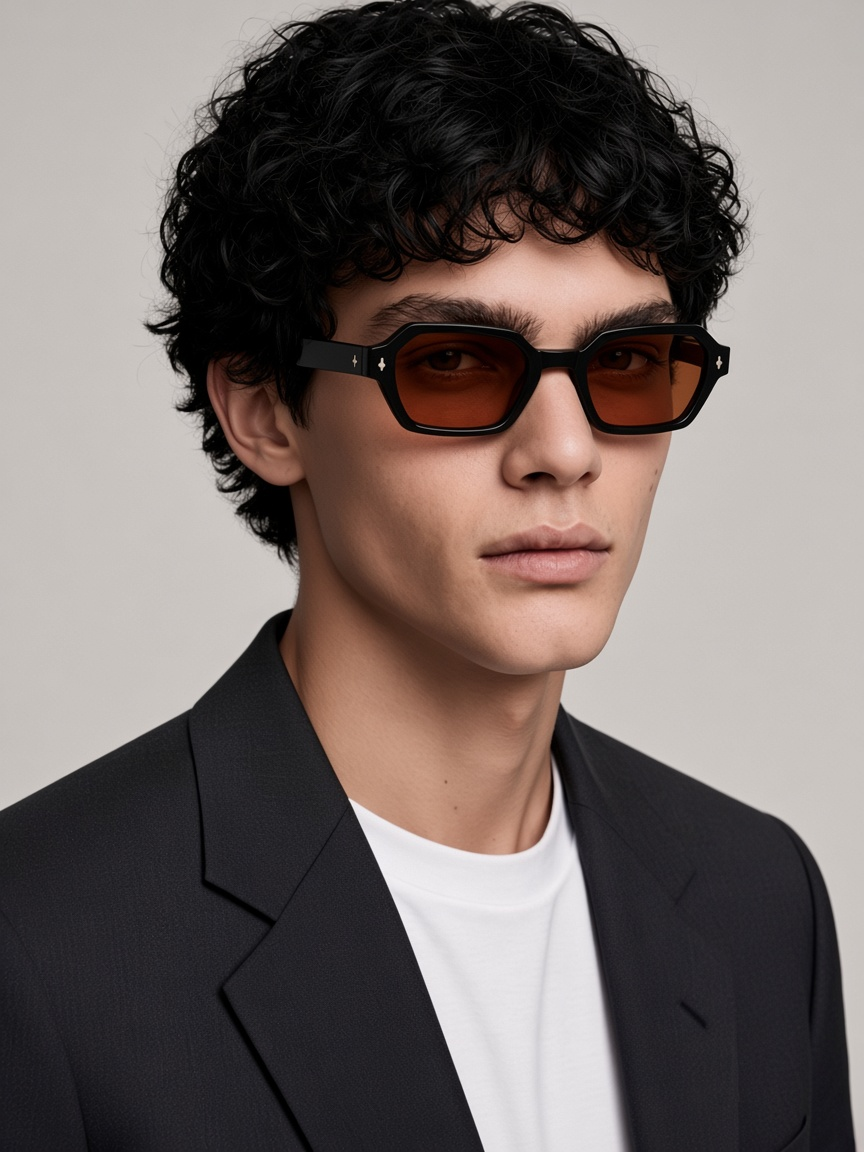
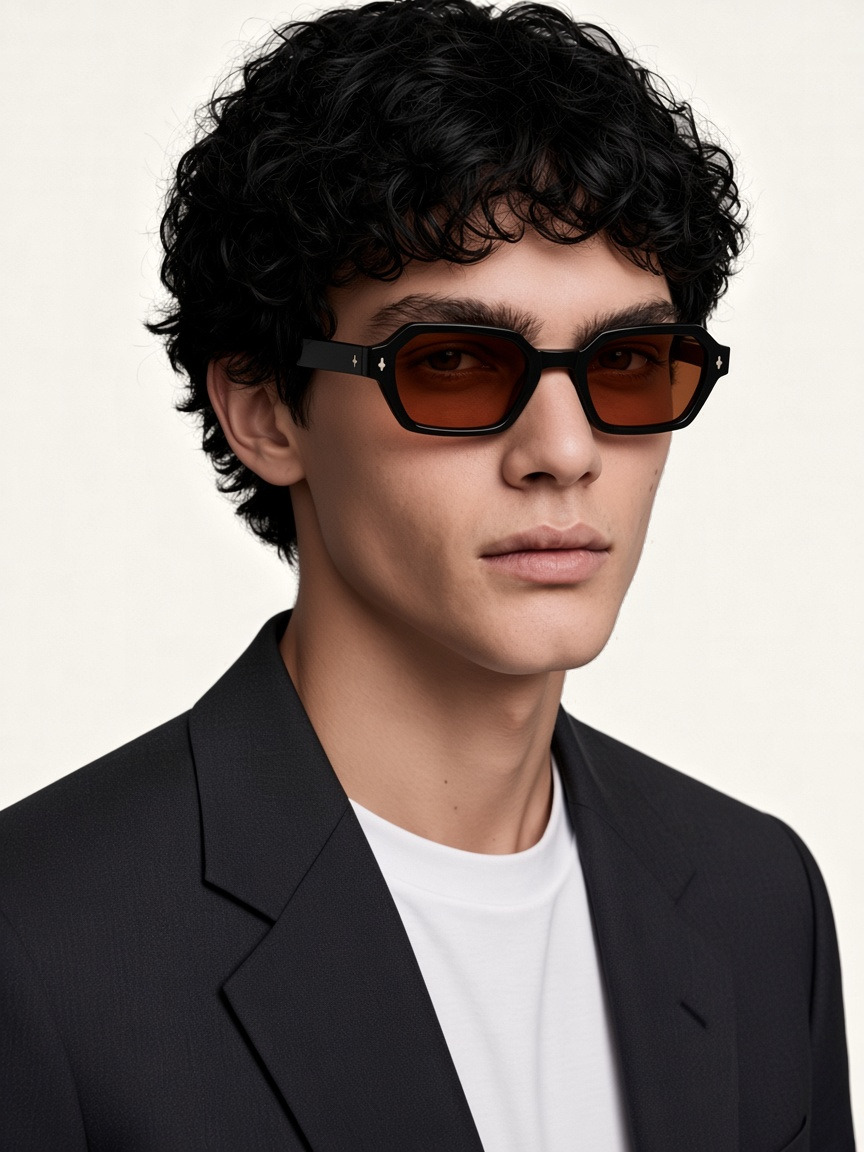
Move the man onto the paper rather than the frames onto the sweep
Yesterday I matched these two the wrong way round. The plates went grey to
meet the portraits, which made the gallery agree with itself by making four
of the six images darker than the page they sit on. The page is ivory and
the frames were always photographed for it. It is the room behind the
model that does not belong.

So the plates are ivory again and the sweep is gone. scripts/paper-backdrop
measures it rather than painting over it: the room is lit, brighter behind
his head than in the corners, and a flat fill would leave a rectangle
hanging on the page with a man pasted into the middle of it. The gradient
is sampled over cells of clean wall, grown across the cells he is standing
in front of, and the whole field is moved onto ivory with a quarter of its
own falloff kept so it still reads as lit.

Two things decide what counts as room. Colour cannot do it alone: his shirt
is white and all but neutral, and the only thing separating it from the
wall is the jacket in between, so the search walks in from the edges and
the bottom edge is left unseeded because the shirt reaches it. And an
outline is not enough either, because the edge of his hair is not an edge,
it is several hundred curls with the wall showing between them. Those
pixels are hair and wall mixed, and since hair this dark adds almost
nothing to the brightness, what brightness survives is the wall's share.
Correct that share and the curls keep their edge instead of gaining a grey
one.
[…]

diff --git a/src/components/product/colorway-card.tsx b/src/components/product/colorway-card.tsx
@@ -22,7 +22,7 @@ export function ColorwayCard({
 
   return (
     <article className={cn("group relative", className)}>
-      <div className="plate relative flex aspect-5/4 items-center justify-center overflow-hidden bg-studio sm:aspect-16/10">
+      <div className="plate relative flex aspect-5/4 items-center justify-center overflow-hidden sm:aspect-16/10">
         <div
           aria-hidden
           className="absolute inset-0 opacity-0 transition-opacity duration-1000 ease-tamiale group-hover:opacity-100"

diff --git a/src/app/globals.css b/src/app/globals.css
@@ -18,14 +18,6 @@
   --color-ivory-dim: #ebe7de;
   --color-ivory-hairline: #e2ddd2;
 
-  /*
-   * The sweep the frames are photographed against, sampled from the worn
-   * portraits so the cut-out angles and the campaign shots stand on one
-   * ground. Not a paper tone and not used as one: it belongs behind an
-   * object, never behind text.
-   */
-  --color-studio: #c5c0bc;
-
   --color-obsidian: #16150f;
   --color-obsidian-raised: #201f18;
   --color-obsidian-hairline: #33312a;

diff --git a/src/components/product/product-stage.tsx b/src/components/product/product-stage.tsx
@@ -137,7 +137,7 @@ export function ProductStage({
               <div
                 key={angle.id}
                 className={cn(
-                  "plate flex aspect-4/3 items-center justify-center bg-studio",
+                  "plate flex aspect-4/3 items-center justify-center",
                   index > 0 && "mt-5",
                 )}
               >
